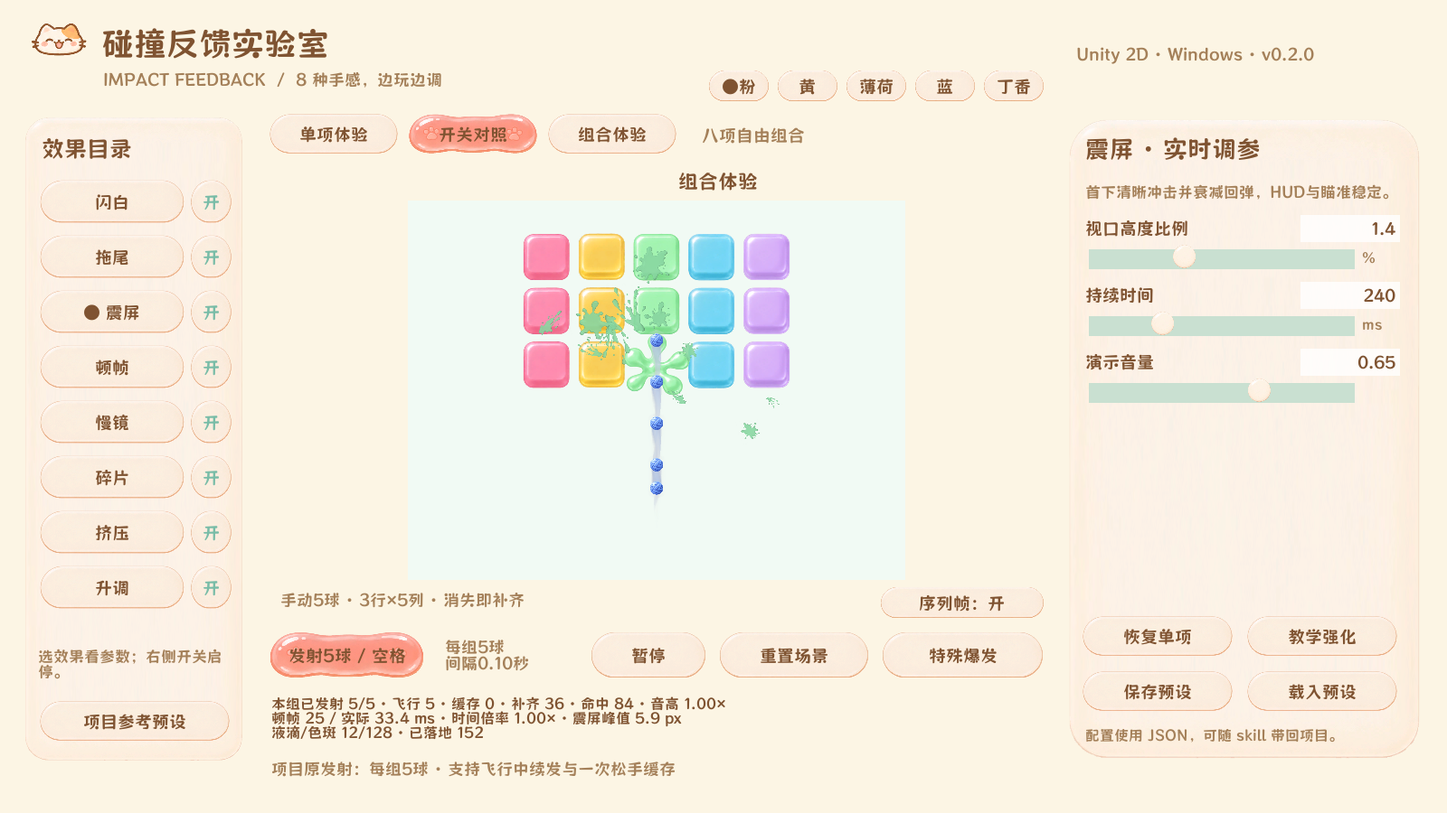
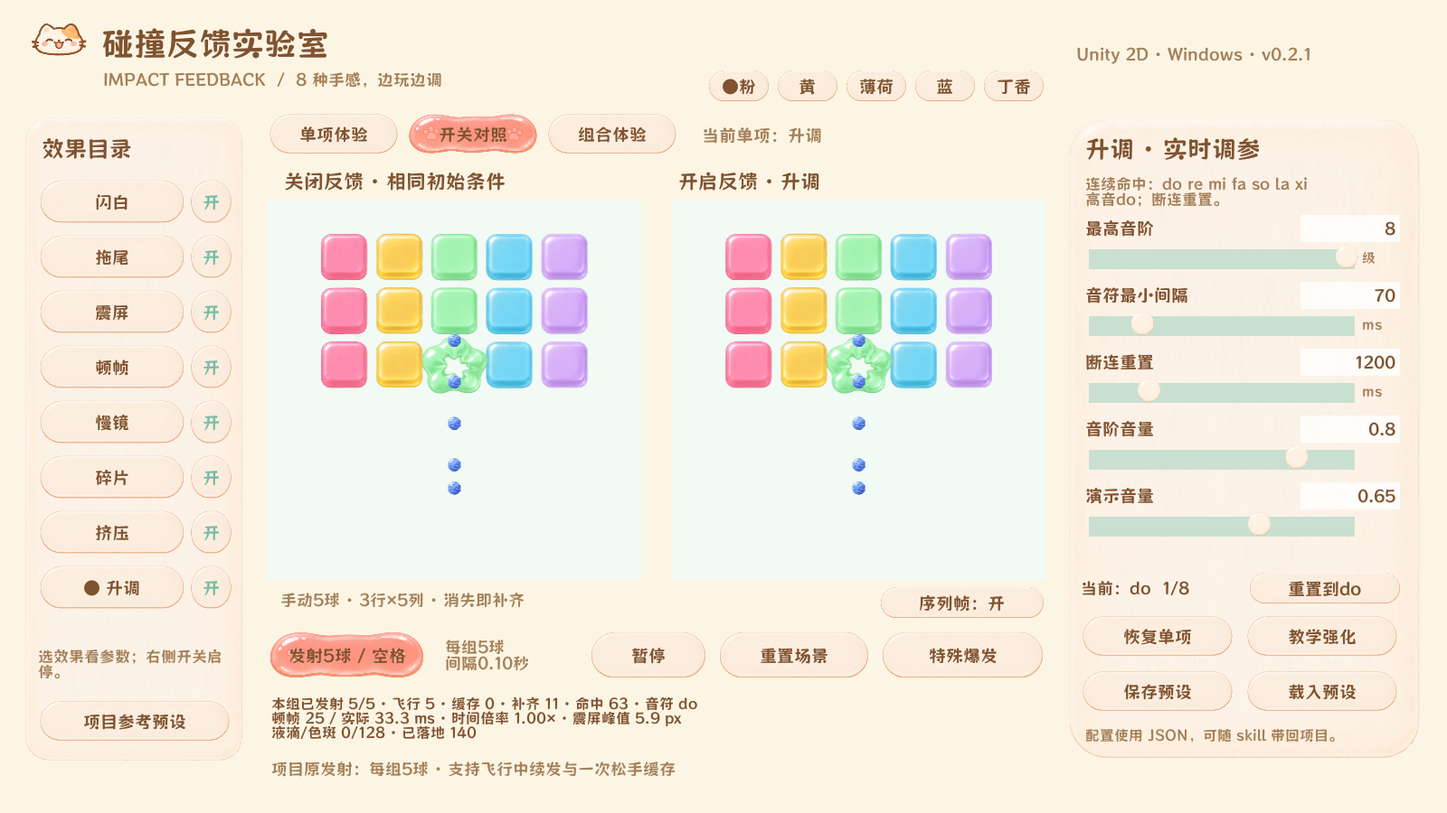
Add audible do-re-mi major-scale collision feedback and legacy preset migration

diff --git a/assets/unity-sample/Assets/ImpactFeedback/Gallery/ImpactGallery.cs b/assets/unity-sample/Assets/ImpactFeedback/Gallery/ImpactGallery.cs
@@ -14,8 +14,8 @@ namespace ImpactFeedback.Gallery {
   public GalleryLane Baseline{get;private set;}public GalleryLane Active{get;private set;}
   public bool Paused{get;private set;}public int Mode{get;private set;}=1;public Effect Selected{get;private set;}
   public static readonly string[] Names={"闪白","拖尾","震屏","顿帧","慢镜","碎片","挤压","升调"};
-  static readonly string[] Hints={"命中表面短促混白，保留透明轮廓。","双层毛线描绘球路，保留碰撞折返点。","首下清晰冲击并衰减回弹，HUD与瞄准稳定。","真实暂停演示侧物理；界面和恢复计时继续。","降低演示侧物理时钟倍率，结束后恢复。","原版液滴甩出后落为颜料色斑，固定128槽。","沿受力方向压缩，只改变视觉子层。","连续命中逐次升调；间隔超过阈值后重置。"};
-  RectTransform content,parameters,stage;Text status,message,title,description,modeLabel,leftLabel,rightLabel,pauseLabel,eventLabel,sequenceLabel;Text[] effectLabels=new Text[8],switchLabels=new Text[8],colourLabels=new Text[5];
+  static readonly string[] Hints={"命中表面短促混白，保留透明轮廓。","双层毛线描绘球路，保留碰撞折返点。","首下清晰冲击并衰减回弹，HUD与瞄准稳定。","真实暂停演示侧物理；界面和恢复计时继续。","降低演示侧物理时钟倍率，结束后恢复。","原版液滴甩出后落为颜料色斑，固定128槽。","沿受力方向压缩，只改变视觉子层。","连续命中：do re mi fa so la xi 高音do；断连重置。"};
+  RectTransform content,parameters,stage;Text status,message,title,description,modeLabel,leftLabel,rightLabel,pauseLabel,eventLabel,sequenceLabel,noteReadout;RectTransform noteControls;Text[] effectLabels=new Text[8],switchLabels=new Text[8],colourLabels=new Text[5];
   int colour;bool sequences=true;
   int screenW,screenH;bool focused=true;ImpactFeedback.ProjectLaunch.ProjectBattleInput projectInput;ImpactKind kind=ImpactKind.Special;
   readonly List<Parameter> rows=new List<Parameter>();
@@ -35,7 +35,7 @@ namespace ImpactFeedback.Gallery {
    if(FindFirstObjectByType<EventSystem>()==null)new GameObject("EventSystem",typeof(EventSystem),typeof(StandaloneInputModule));
    content=A.Rect(canvas.transform,"1600 x 900 content",0,0,1600,900);content.anchorMin=content.anchorMax=Vector2.one*.5f;content.pivot=Vector2.one*.5f;content.anchoredPosition=Vector2.zero;
    A.Image(content,"decor_cat_head",30,22,70,66);A.Label(content,"碰撞反馈实验室",112,20,540,55,36);A.Label(content,"IMPACT FEEDBACK  /  8 种手感，边玩边调",114,73,660,30,18,A.Muted);
-   A.Label(content,"Unity 2D · Windows · v0.2.0",1190,42,370,35,18,A.Muted);
+   A.Label(content,"Unity 2D · Windows · v0.2.1",1190,42,370,35,18,A.Muted);
    for(int i=0;i<5;i++){int k=i;colourLabels[i]=A.Button(content,FiveColourBricks.Names[i],782+i*76,76,70,38,()=>SetColour(k)).GetComponentInChildren<Text>();}
    A.Image(content,"card_cream_help",24,126,248,720,true);A.Label(content,"效果目录",46,145,210,38,25);
    for(int i=0;i<8;i++){int k=i;var b=A.Button(content,Names[i],42,197+i*61,164,52,()=>Select((Effect)k));effectLabels[i]=b.GetComponentInChildren<Text>();
@@ -56,12 +56,13 @@ namespace ImpactFeedback.Gallery {
    status=A.Label(content,"",300,760,850,70,16);message=A.Label(content,"沿用游戏内拖动瞄准、松手发射；支持连发与一次输入缓存。",300,830,850,42,18,A.Muted);
    A.Image(content,"card_cream_help",1176,126,400,720,true);
    title=A.Label(content,"",1200,144,350,40,27);description=A.Label(content,"",1200,191,350,42,17,A.Muted);description.name="Effect explanation";parameters=A.Rect(content,"Parameter rows",1200,238,350,420);
+   noteControls=A.Rect(content,"Scale controls",1195,632,360,38);noteReadout=A.Label(noteControls,"",0,0,175,38,18);A.Button(noteControls,"重置到do",185,0,170,38,()=>Active.Presenter.ResetNotes());
    A.Button(content,"恢复单项",1195,680,170,48,ResetSelected);A.Button(content,"教学强化",1377,680,170,48,()=>SetProfile(ImpactProfile.Teaching()));
    A.Button(content,"保存预设",1195,741,170,48,Save);A.Button(content,"载入预设",1377,741,170,48,Load);
    A.Label(content,"配置使用 JSON，可随 skill 带回项目。",1200,800,350,28,16,A.Muted);
    RefreshParameters();Resize();
   }
-  public void Select(Effect e){Selected=e;RefreshParameters();Apply();}
+  public void Select(Effect e){Active.Presenter.ResetNotes();Selected=e;RefreshParameters();Apply();}
   public void SetMode(int mode){Mode=mode;Apply();Resize();ResetScene();}
   void Apply(){Profile.Clamp();Baseline.Presenter.Profile=Active.Presenter.Profile=Profile;
    Active.Presenter.Selected=Selected;Active.Presenter.ForceSelected=Mode!=2;Active.Kind=Baseline.Kind=kind;
@@ -76,7 +77,7 @@ namespace ImpactFeedback.Gallery {
   void Add(string name,string unit,float min,float max,Func<ImpactProfile,float> get,Action<ImpactProfile,float> set,bool integer=false){rows.Add(new Parameter{name=name,unit=unit,min=min,max=max,get=get,set=set,integer=integer});}
   void RefreshParameters(){
    foreach(Transform child in parameters){child.gameObject.SetActive(false);Destroy(child.gameObject);}rows.Clear();title.text=Names[(int)Selected]+" · 实时调参";
-   description.text=Hints[(int)Selected];
+   description.text=Hints[(int)Selected];noteControls.gameObject.SetActive(Selected==Effect.Pitch);
    switch(Selected){
     case Effect.Flash:Add("混白强度","",0,1,p=>p.flashStrength,(p,v)=>p.flashStrength=v);Add("持续时间","ms",5,400,p=>p.flashMs,(p,v)=>p.flashMs=v,true);break;
     case Effect.Trail:Add("最大长度","单位",.1f,5,p=>p.trailLength,(p,v)=>p.trailLength=v);Add("线芯宽度","单位",.02f,.6f,p=>p.trailWidth,(p,v)=>p.trailWidth=v);Add("保留寿命","s",.03f,1,p=>p.trailLife,(p,v)=>p.trailLife=v);Add("透明度","",0,1,p=>p.trailOpacity,(p,v)=>p.trailOpacity=v);break;
@@ -85,7 +86,7 @@ namespace ImpactFeedback.Gallery {
     case Effect.SlowMotion:Add("时间倍率","倍",.05f,1,p=>p.slowScale,(p,v)=>p.slowScale=v);Add("持续时间","ms",0,1500,p=>p.slowMs,(p,v)=>p.slowMs=v,true);break;
     case Effect.Fragments:Add("单次数量","个",0,64,p=>p.fragmentCount,(p,v)=>p.fragmentCount=Mathf.RoundToInt(v),true);Add("液滴飞行速度","",.1f,12,p=>p.fragmentSpeed,(p,v)=>p.fragmentSpeed=v);Add("色斑大小","比例",.03f,.5f,p=>p.fragmentSize,(p,v)=>p.fragmentSize=v);Add("存在寿命","s",.1f,3,p=>p.fragmentLife,(p,v)=>p.fragmentLife=v);break;
     case Effect.Squash:Add("挤压幅度","",0,.45f,p=>p.squashAmount,(p,v)=>p.squashAmount=v);Add("回弹时长","ms",50,1000,p=>p.squashMs,(p,v)=>p.squashMs=v,true);break;
-    case Effect.Pitch:Add("每次升调","",0,.15f,p=>p.pitchStep,(p,v)=>p.pitchStep=v);Add("最高音高","倍",1,2,p=>p.pitchMax,(p,v)=>p.pitchMax=v);Add("间隔重置","ms",200,5000,p=>p.pitchResetMs,(p,v)=>p.pitchResetMs=v,true);break;
+    case Effect.Pitch:Add("最高音阶","级",1,8,p=>p.scaleNotes,(p,v)=>p.scaleNotes=Mathf.RoundToInt(v),true);Add("音符最小间隔","ms",30,250,p=>p.noteIntervalMs,(p,v)=>p.noteIntervalMs=v,true);Add("断连重置","ms",200,5000,p=>p.pitchResetMs,(p,v)=>p.pitchResetMs=v,true);Add("音阶音量","",0,1,p=>p.noteVolume,(p,v)=>p.noteVolume=v);break;
    }
    Add("演示音量","",0,1,p=>p.volume,(p,v)=>p.volume=v);
    for(int i=0;i<rows.Count;i++)ParameterRow(rows[i],i*74);
@@ -115,7 +116,7 @@ namespace ImpactFeedback.Gallery {
   void OnGUI(){projectInput?.ProcessUnityGUI();}
   public void ResetScene(){projectInput?.Cancel();SetPaused(false);Baseline.Reset();Active.Reset();}
   public void Save(){try{Profile.Clamp();var json=JsonUtility.ToJson(Profile,true);File.WriteAllText(PresetPath+".tmp",json);if(File.Exists(PresetPath))File.Replace(PresetPath+".tmp",PresetPath,null);else File.Move(PresetPath+".tmp",PresetPath);message.text="已保存："+PresetPath;}catch(Exception e){message.text="保存失败："+e.Message;}}
-  public void Load(){try{var p=JsonUtility.FromJson<ImpactProfile>(File.ReadAllText(PresetPath));if(p==null||p.schemaVersion!=1)throw new InvalidDataException("不支持的参数版本");SetProfile(p);message.text="已载入自定义预设";}catch(Exception e){message.text="载入失败："+e.Message;}}
+  public void Load(){try{SetProfile(ImpactProfile.FromJson(File.ReadAllText(PresetPath)));message.text="已载入自定义预设";}catch(Exception e){message.text="载入失败："+e.Message;}}
   void Resize(){screenW=Screen.width;screenH=Screen.height;float scale=Mathf.Min(screenW/1600f,screenH/900f);content.localScale=Vector3.one*scale;
    var corners=new Vector3[4];stage.GetWorldCorners(corners);float x=corners[0].x/screenW,y=corners[0].y/screenH,w=(corners[2].x-corners[0].x)/screenW,h=(corners[2].y-corners[0].y)/screenH;
    Baseline.Camera.enabled=Mode==1;Baseline.Camera.rect=new Rect(x,y,w*.48f,h);Active.Camera.rect=Mode==1?new Rect(x+w*.52f,y,w*.48f,h):new Rect(x+w*.18f,y,w*.64f,h);
@@ -125,7 +126,7 @@ namespace ImpactFeedback.Gallery {
    Baseline.Tick(Time.unscaledTime,dt,paused);Active.Tick(Time.unscaledTime,dt,paused);
    bool editing=EventSystem.current!=null&&EventSystem.current.currentSelectedGameObject!=null&&EventSystem.current.currentSelectedGameObject.GetComponent<InputField>()!=null;
    if(!editing&&Input.GetKeyDown(KeyCode.Space))Launch();if(!editing&&Input.GetKeyDown(KeyCode.P))SetPaused(!Paused);
-   var clock=Active.Presenter.Clock;status.text="本组已发射 "+Active.SpawnedThisVolley+"/5 · 飞行 "+Active.ActiveBalls+" · 缓存 "+(Active.Production.HasBufferedShot?1:0)+" · 补齐 "+Active.Refills+" · 命中 "+Active.Presenter.ImpactCount+" · 音高 "+Active.Presenter.LastPitch.ToString("0.00")+"×\n顿帧 "+Profile.hitStopMs.ToString("0")+" / 实际 "+clock.ActualStopMs.ToString("0.0")+" ms · 时间倍率 "+clock.Scale.ToString("0.00")+"× · 震屏峰值 "+Active.Presenter.PeakShakePixels.ToString("0.0")+" px\n液滴/色斑 "+Active.Presenter.ActiveParticles+"/128 · 已落地 "+Active.Presenter.LandedParticles;
+   noteReadout.text="当前："+Active.Presenter.LastNote+"  "+(Active.Presenter.LastNoteIndex+1)+"/8";var clock=Active.Presenter.Clock;status.text="本组已发射 "+Active.SpawnedThisVolley+"/5 · 飞行 "+Active.ActiveBalls+" · 缓存 "+(Active.Production.HasBufferedShot?1:0)+" · 补齐 "+Active.Refills+" · 命中 "+Active.Presenter.ImpactCount+" · 音符 "+Active.Presenter.LastNote+"\n顿帧 "+Profile.hitStopMs.ToString("0")+" / 实际 "+clock.ActualStopMs.ToString("0.0")+" ms · 时间倍率 "+clock.Scale.ToString("0.00")+"× · 震屏峰值 "+Active.Presenter.PeakShakePixels.ToString("0.0")+" px\n液滴/色斑 "+Active.Presenter.ActiveParticles+"/128 · 已落地 "+Active.Presenter.LandedParticles;
 
   }
   void OnApplicationFocus(bool f){projectInput?.Cancel();focused=f;if(!f){Baseline?.Presenter.ResetPresentation();Active?.Presenter.ResetPresentation();}}

diff --git a/assets/unity-sample/Assets/ImpactFeedback/Gallery/GalleryQA.cs b/assets/unity-sample/Assets/ImpactFeedback/Gallery/GalleryQA.cs
@@ -8,15 +8,29 @@ using UnityEngine.UI;
 namespace ImpactFeedback.Gallery {
  public sealed class GalleryQA:MonoBehaviour {
   [Serializable]class Check{public string name;public bool passed;}
-  [Serializable]class Report{public string unity,assemblySha256,projectRuleTests,version="0.2.0";public int configuredFps,passed,failed;public float shakePeakPixels;public List<Check> checks=new List<Check>();}
+  [Serializable]class Report{public string unity,assemblySha256,projectRuleTests,version="0.2.1";public int configuredFps,passed,failed;public float shakePeakPixels;public float[] scaleFrequencies;public List<Check> checks=new List<Check>();}
   Report report=new Report();string folder;ImpactGallery g;
   void C(bool passed,string name){report.checks.Add(new Check{name=name,passed=passed});if(passed)report.passed++;else report.failed++;Debug.Log("GALLERY_QA "+(passed?"PASS ":"FAIL ")+name);}
   string Arg(string key,string fallback){var a=Environment.GetCommandLineArgs();int i=Array.IndexOf(a,key);return i>=0&&i+1<a.Length?a[i+1]:fallback;}
   void Capture(string name){GalleryCapture.Save(g,Path.Combine(folder,name+".png"));}
+  void VerifyScaleAudio(){
+   var bank=new SolfeggioScale();float[] expected={261.625565f,293.664768f,329.627557f,349.228231f,391.995436f,440,493.883301f,523.251131f};report.scaleFrequencies=new float[8];
+   int perNote=Mathf.RoundToInt(SolfeggioScale.SampleRate*.26f);var combined=new float[perNote*8];
+   for(int n=0;n<8;n++){
+    var clip=bank.Clip(n);var data=new float[clip.samples];clip.GetData(data,0);int first=-1,last=0,crossings=0;float peak=0;
+    for(int i=1;i<data.Length;i++){peak=Mathf.Max(peak,Mathf.Abs(data[i]));if(i<SolfeggioScale.SampleRate*.015f||i>SolfeggioScale.SampleRate*.16f)continue;if(data[i-1]<=0&&data[i]>0){if(first<0)first=i;last=i;crossings++;}}
+    float measured=(crossings-1)*SolfeggioScale.SampleRate/(float)(last-first);report.scaleFrequencies[n]=measured;
+    C(Mathf.Abs(measured-expected[n])/expected[n]<.005f,"rendered audio frequency matches "+SolfeggioScale.Names[n]);C(peak<.5f&&Mathf.Abs(data[0])<.0001f&&Mathf.Abs(data[data.Length-1])<.001f,"note envelope is bounded with clean attack/release: "+SolfeggioScale.Names[n]);
+    System.Array.Copy(data,0,combined,n*perNote,data.Length);
+   }
+   using(var writer=new BinaryWriter(File.Create(Path.Combine(folder,"solfeggio-scale.wav")))){
+    writer.Write(System.Text.Encoding.ASCII.GetBytes("RIFF"));writer.Write(36+combined.Length*2);writer.Write(System.Text.Encoding.ASCII.GetBytes("WAVEfmt "));writer.Write(16);writer.Write((short)1);writer.Write((short)1);writer.Write(SolfeggioScale.SampleRate);writer.Write(SolfeggioScale.SampleRate*2);writer.Write((short)2);writer.Write((short)16);writer.Write(System.Text.Encoding.ASCII.GetBytes("data"));writer.Write(combined.Length*2);foreach(float sample in combined)writer.Write((short)(Mathf.Clamp(sample,-1,1)*32767));
+   }bank.Dispose();
+  }
   IEnumerator Start(){
    folder=Arg("--qa-out",Path.Combine(Application.persistentDataPath,"qa"));Directory.CreateDirectory(folder);report.unity=Application.unityVersion;report.configuredFps=int.Parse(Arg("--qa-fps","60"));Application.targetFrameRate=report.configuredFps;
    using(var hash=SHA256.Create())report.assemblySha256=BitConverter.ToString(hash.ComputeHash(File.ReadAllBytes(typeof(ImpactGallery).Assembly.Location))).Replace("-","").ToLowerInvariant();
-   yield return null;g=ImpactGallery.Instance;g.ResetScene();
+   yield return null;g=ImpactGallery.Instance;g.ResetScene();VerifyScaleAudio();
    report.projectRuleTests=ImpactFeedback.ProjectLaunch.RuleSelfTests.RunAll();C(report.projectRuleTests.StartsWith("PASS"),"unchanged project RuleState self-tests pass");
    var shallow=ImpactFeedback.ProjectLaunch.GameSession.NormalizeAimDirection(new Vector2(1,.001f));C(Mathf.Abs(Mathf.Atan2(shallow.y,shallow.x)*Mathf.Rad2Deg-12)<.001f,"production minimum launch angle remains 12 degrees");
    C(!g.Active.Production.TryShoot(Vector2.down)&&!g.Active.Production.TryShoot(Vector2.zero),"production rejects downward and zero-length shots");
@@ -77,12 +91,19 @@ namespace ImpactFeedback.Gallery {
    C(g.Active.Refills>beforeRefill&&g.Active.Bricks.Length==15,"refill reuses the original fifteen cells");
    g.SetPaused(true);var frozen=new Vector2[5];for(int i=0;i<5;i++)frozen[i]=g.Active.Balls[i].position;int frame=brick.Sequence.FrameIndex;yield return new WaitForSecondsRealtime(.12f);
    bool fixedAll=true;for(int i=0;i<5;i++)fixedAll&=g.Active.Balls[i].position==frozen[i];C(fixedAll&&frame==brick.Sequence.FrameIndex,"pause freezes all five bodies and sequence clocks");g.SetPaused(false);g.ResetScene();
-   g.SetMode(2);g.Profile.pitchResetMs=200;g.Active.Presenter.Hit(Vector2.zero,Vector2.up,Color.cyan,ImpactKind.Hit);g.Active.Presenter.Hit(Vector2.zero,Vector2.up,Color.cyan,ImpactKind.Hit);
-   C(g.Active.Presenter.LastPitch>1&&g.Active.Presenter.LastPitch<=g.Profile.pitchMax,"successive contacts raise pitch within its cap");yield return new WaitForSecondsRealtime(.25f);g.Active.Presenter.Hit(Vector2.zero,Vector2.up,Color.cyan,ImpactKind.Hit);C(g.Active.Presenter.LastPitch==1,"pitch resets after its configured gap");
+   g.SetMode(1);g.Select(Effect.Pitch);g.Profile.pitchResetMs=200;g.Active.Presenter.ResetNotes();
+   for(int n=0;n<8;n++){if(n>0)yield return new WaitForSecondsRealtime(.085f);g.Active.Presenter.Hit(Vector2.zero,Vector2.up,Color.cyan,ImpactKind.Hit);C(g.Active.Presenter.LastNoteIndex==n,"successive audible contacts advance through "+SolfeggioScale.Names[n]);}
+   yield return new WaitForSecondsRealtime(.085f);g.Active.Presenter.Hit(Vector2.zero,Vector2.up,Color.cyan,ImpactKind.Hit);C(g.Active.Presenter.LastNoteIndex==7&&Mathf.Abs(g.Active.Presenter.LastPitch-2)<.001f,"ascending scale holds at the upper do octave");
+   g.Active.Presenter.ResetNotes();g.Active.Presenter.Hit(Vector2.zero,Vector2.up,Color.cyan,ImpactKind.Hit);int played=g.Active.Presenter.NotesPlayed;g.Active.Presenter.Hit(Vector2.zero,Vector2.up,Color.cyan,ImpactKind.Hit);C(g.Active.Presenter.NotesPlayed==played&&g.Active.Presenter.LastNoteIndex==0,"coalesced dense contacts do not silently skip scale notes");
+   yield return new WaitForSecondsRealtime(.085f);g.Active.Presenter.Hit(Vector2.zero,Vector2.up,Color.cyan,ImpactKind.Hit);C(g.Active.Presenter.LastNoteIndex==1,"the next audible contact continues at re after a merged hit");
+   yield return new WaitForSecondsRealtime(.25f);g.Active.Presenter.Hit(Vector2.zero,Vector2.up,Color.cyan,ImpactKind.Hit);C(g.Active.Presenter.LastNoteIndex==0,"scale resets to do after its configured gap");
+   g.Profile.pitch=false;g.Active.Presenter.ResetNotes();g.Active.Presenter.Hit(Vector2.zero,Vector2.up,Color.cyan,ImpactKind.Hit);yield return new WaitForSecondsRealtime(.085f);g.Active.Presenter.Hit(Vector2.zero,Vector2.up,Color.cyan,ImpactKind.Hit);C(g.Active.Presenter.LastNoteIndex==0,"switching off scale ascent keeps a fixed do for comparison");g.Profile.pitch=true;
    string original=File.Exists(g.PresetPath)?File.ReadAllText(g.PresetPath):null;g.Select(Effect.HitStop);yield return null;
    GameObject.Find("Value 顿帧时长").GetComponent<InputField>().onEndEdit.Invoke("100");C(g.Profile.hitStopMs==100,"numeric input commits exact milliseconds");
    g.Profile.hitStopMs=137;g.Save();g.Profile.hitStopMs=1;g.Load();C(Mathf.Abs(g.Profile.hitStopMs-137)<.001f,"preset JSON round trip preserves duration edits");if(original==null)File.Delete(g.PresetPath);else File.WriteAllText(g.PresetPath,original);
    p=new ImpactProfile();p.hitStopMs=float.NaN;p.pitchMax=100;p.fragmentCount=1000;p.Clamp();C(p.hitStopMs==25&&p.pitchMax==2&&p.fragmentCount==64,"external preset values are normalized");
+   var legacy=ImpactProfile.FromJson("{\"schemaVersion\":1,\"pitch\":true,\"volume\":0.65}");C(legacy.scaleNotes==8&&legacy.noteIntervalMs==70&&legacy.noteVolume==.8f,"old presets gain audible eight-note defaults");
+   var muted=ImpactProfile.FromJson("{\"schemaVersion\":1,\"noteVolume\":0}");C(muted.noteVolume==0,"explicitly muted scale presets remain muted");
    for(int i=0;i<8;i++){
     g.SetProfile(ImpactProfile.GalleryDefault());g.SetMode(1);g.Select((Effect)i);g.ResetScene();yield return null;
     C(g.Active.Presenter.Enabled((Effect)i),"effect independently available: "+ImpactGallery.Names[i]);C(!g.Active.Presenter.Enabled((Effect)((i+1)%8)),"single mode isolates selection: "+ImpactGallery.Names[i]);

diff --git a/assets/unity-sample/Assets/ImpactFeedback/Runtime/ImpactPresenter.cs b/assets/unity-sample/Assets/ImpactFeedback/Runtime/ImpactPresenter.cs
@@ -5,19 +5,21 @@ namespace ImpactFeedback {
   public ImpactProfile Profile=new ImpactProfile();public readonly FeedbackClock Clock=new FeedbackClock();
   public bool AllowEffects=true,ForceSelected,PlayAudio=true;public Effect Selected;
   public int ImpactCount{get;private set;}public float LastPitch{get;private set;}=1;
+  public int LastNoteIndex{get;private set;}public string LastNote=>SolfeggioScale.Names[LastNoteIndex];public int NotesPlayed{get;private set;}
   public int ActiveParticles{get;private set;}public int PeakParticles{get;private set;}public int ActivePaintMarks{get;private set;}public int LandedParticles{get;private set;}
   public float PeakShakePixels{get;private set;}public Vector3 CameraOffset=>view==null?Vector3.zero:view.transform.localPosition-cameraRest;
   public readonly List<YarnFlightTrail> Trails=new List<YarnFlightTrail>();readonly List<Transform> heads=new List<Transform>();
   sealed class Target{public SpriteRenderer face;public Vector3 rest;public Vector2 incoming;public float flashAge=9,squashAge=9;public MaterialPropertyBlock block=new MaterialPropertyBlock();}
   readonly Dictionary<SpriteRenderer,Target> targets=new Dictionary<SpriteRenderer,Target>();SpriteRenderer primary;
   Camera view;Vector3 cameraRest;Material flashMaterial;readonly Dictionary<Texture,Material> faceMaterials=new Dictionary<Texture,Material>();float alphaCutoff;float shakeAge=9,shakeDuration=.24f,shakeAmplitude;Vector2 shakeAxis=Vector2.right;
-  float pitchAt=-99,nextAudio;int pitchChain,voiceCursor;AudioSource[] voices;AudioClip clip;
+  float pitchAt=-99,nextAudio;int pitchChain,voiceCursor;AudioSource[] voices;AudioClip clip;SolfeggioScale notes;
   System.Random random=new System.Random(79012);Sprite[] particleSprites;
   struct Drop{public SpriteRenderer view;public Vector2 origin,target;public Color color;public float age,life,size,travel,rotation;public int sprite;public bool landed;}
   readonly Drop[] pool=new Drop[128];
   public bool Enabled(Effect e)=>AllowEffects&&Profile.Enabled(e)&&(!ForceSelected||Selected==e);
+  public void ResetNotes(){pitchChain=0;pitchAt=-99;nextAudio=0;LastPitch=1;LastNoteIndex=0;}
   public void Initialize(SpriteRenderer target,Transform movingHead,Camera camera,Sprite[] particles,AudioClip sound,Texture2D yarn){
-   primary=target;view=camera;cameraRest=view.transform.localPosition;particleSprites=particles;clip=sound;
+   primary=target;view=camera;cameraRest=view.transform.localPosition;particleSprites=particles;clip=sound;notes=new SolfeggioScale();
    flashMaterial=new Material(Shader.Find("ImpactFeedback/SpriteFlash"));AddTarget(target);AddTrail(movingHead,yarn);
    voices=new AudioSource[12];for(int i=0;i<voices.Length;i++){voices[i]=gameObject.AddComponent<AudioSource>();voices[i].playOnAwake=false;voices[i].spatialBlend=0;}
    for(int i=0;i<pool.Length;i++){var o=new GameObject("Project pooled paint "+i);o.transform.SetParent(transform,false);o.layer=target.gameObject.layer;var sr=o.AddComponent<SpriteRenderer>();sr.sprite=particles[i%4];sr.sortingOrder=78;o.SetActive(false);pool[i].view=sr;}
@@ -39,9 +41,17 @@ namespace ImpactFeedback {
    }
    Clock.Request(now,Profile,Enabled(Effect.HitStop)&&(special||ForceSelected&&Selected==Effect.HitStop),Enabled(Effect.SlowMotion)&&(special||ForceSelected&&Selected==Effect.SlowMotion));
    if(Enabled(Effect.Fragments)&&(kind!=ImpactKind.Hit||ForceSelected&&Selected==Effect.Fragments))Emit(position,direction,color,brickWidth);
-   if(now-pitchAt>Profile.pitchResetMs/1000)pitchChain=0;
-   LastPitch=Enabled(Effect.Pitch)?Mathf.Min(Profile.pitchMax,1+pitchChain*Profile.pitchStep):1;pitchChain++;pitchAt=now;
-   if(PlayAudio&&clip!=null&&now>=nextAudio){var a=voices[voiceCursor++%voices.Length];a.Stop();a.clip=clip;a.pitch=LastPitch;a.volume=Profile.volume;a.Play();nextAudio=now+.025f;}
+   if(PlayAudio&&now>=nextAudio){
+    bool ascending=Enabled(Effect.Pitch),scaleVoice=ascending||AllowEffects&&ForceSelected&&Selected==Effect.Pitch;
+    var a=voices[voiceCursor++%voices.Length];a.Stop();a.pitch=1;
+    if(scaleVoice){
+     if(now-pitchAt>Profile.pitchResetMs/1000)pitchChain=0;
+     LastNoteIndex=ascending?Mathf.Min(pitchChain,Profile.scaleNotes-1):0;LastPitch=SolfeggioScale.Ratio(LastNoteIndex);
+     a.clip=notes.Clip(LastNoteIndex);a.volume=Profile.volume*Profile.noteVolume;pitchAt=now;
+     pitchChain=ascending?Mathf.Min(LastNoteIndex+1,7):0;NotesPlayed++;nextAudio=now+Profile.noteIntervalMs/1000;
+    }else{LastPitch=1;LastNoteIndex=0;pitchChain=0;a.clip=clip;a.volume=Profile.volume;nextAudio=now+.025f;}
+    if(a.clip!=null)a.Play();
+   }
   }
   void ApplyShake(){float t=Mathf.Clamp01(shakeAge/shakeDuration);float amp=Enabled(Effect.Shake)?shakeAmplitude*view.orthographicSize*2:0;
    Vector2 tangent=new Vector2(-shakeAxis.y,shakeAxis.x);Vector2 offset=(shakeAxis*Mathf.Cos(t*Mathf.PI*6)+tangent*Mathf.Sin(t*Mathf.PI*8)*.3f)*amp*(1-t)*(1-t);
@@ -75,11 +85,11 @@ namespace ImpactFeedback {
    else{if(!d.landed){d.landed=true;d.view.sprite=particleSprites[d.sprite];d.view.sortingOrder=38;d.view.transform.position=d.target;d.view.transform.rotation=Quaternion.Euler(0,0,d.rotation);LandedParticles++;}
     ActivePaintMarks++;float settle=Mathf.Clamp01((d.age-d.travel)/.10f);Size(ref d,1+.12f*Mathf.Sin(settle*Mathf.PI));float fade=Mathf.Clamp01((d.life-d.age)/.40f);d.view.color=new Color(d.color.r,d.color.g,d.color.b,.90f*fade);}
   }PeakParticles=Mathf.Max(PeakParticles,ActiveParticles);}
-  public void ResetPresentation(){Clock.Reset();shakeAge=9;pitchChain=0;pitchAt=-99;LastPitch=1;
+  public void ResetPresentation(){Clock.Reset();shakeAge=9;pitchChain=0;pitchAt=-99;nextAudio=0;LastPitch=1;LastNoteIndex=0;
    if(view!=null)view.transform.localPosition=cameraRest;foreach(var t in targets.Values)ResetTarget(t.face);foreach(var trail in Trails)trail.Clear();
    for(int i=0;i<pool.Length;i++)if(pool[i].view!=null)pool[i].view.gameObject.SetActive(false);if(voices!=null)foreach(var a in voices)if(a!=null)a.Stop();ActiveParticles=ActivePaintMarks=0;
   }
   void OnApplicationFocus(bool focus){if(!focus)ResetPresentation();}void OnApplicationPause(bool pause){if(pause)ResetPresentation();}void OnDisable(){ResetPresentation();}
-  void OnDestroy(){if(flashMaterial!=null)Destroy(flashMaterial);foreach(var material in faceMaterials.Values)Destroy(material);foreach(var trail in Trails)trail.Dispose();}
+  void OnDestroy(){if(flashMaterial!=null)Destroy(flashMaterial);foreach(var material in faceMaterials.Values)Destroy(material);foreach(var trail in Trails)trail.Dispose();notes?.Dispose();}
  }
 }

diff --git a/assets/unity-sample/Assets/ImpactFeedback/Runtime/ImpactProfile.cs b/assets/unity-sample/Assets/ImpactFeedback/Runtime/ImpactProfile.cs
@@ -17,9 +17,18 @@ namespace ImpactFeedback {
   public float paintMinRadius=.45f,paintMaxRadius=2.8f;
   public float squashAmount=.18f,squashMs=450;
   public float pitchStep=.025f,pitchMax=1.15f,pitchResetMs=1200,volume=.65f;
+  // pitchStep/pitchMax remain for reading earlier presets. Scale mode uses exact notes.
+  public int scaleNotes=8;public float noteIntervalMs=70,noteVolume=.8f;
   public bool Enabled(Effect e){switch(e){case Effect.Flash:return flash;case Effect.Trail:return trail;case Effect.Shake:return shake;case Effect.HitStop:return hitStop;case Effect.SlowMotion:return slowMotion;case Effect.Fragments:return fragments;case Effect.Squash:return squash;default:return pitch;}}
   public void Enable(Effect e,bool v){switch(e){case Effect.Flash:flash=v;break;case Effect.Trail:trail=v;break;case Effect.Shake:shake=v;break;case Effect.HitStop:hitStop=v;break;case Effect.SlowMotion:slowMotion=v;break;case Effect.Fragments:fragments=v;break;case Effect.Squash:squash=v;break;case Effect.Pitch:pitch=v;break;}}
   public ImpactProfile Copy()=>JsonUtility.FromJson<ImpactProfile>(JsonUtility.ToJson(this));
+  public static ImpactProfile FromJson(string json){
+   var p=JsonUtility.FromJson<ImpactProfile>(json);if(p==null||p.schemaVersion!=1)throw new ArgumentException("不支持的参数版本");
+   if(json.IndexOf("\"scaleNotes\"",StringComparison.Ordinal)<0)p.scaleNotes=8;
+   if(json.IndexOf("\"noteIntervalMs\"",StringComparison.Ordinal)<0)p.noteIntervalMs=70;
+   if(json.IndexOf("\"noteVolume\"",StringComparison.Ordinal)<0)p.noteVolume=.8f;
+   p.Clamp();return p;
+  }
   public void Clamp(){
    schemaVersion=1;flashStrength=C(flashStrength,0,1,.48f);flashMs=C(flashMs,5,400,50);
    trailLength=C(trailLength,.1f,5,2.1f);trailWidth=C(trailWidth,.02f,.6f,.2f);trailLife=C(trailLife,.03f,1,.24f);trailOpacity=C(trailOpacity,0,1,.95f);
@@ -30,6 +39,7 @@ namespace ImpactFeedback {
    paintMinRadius=C(paintMinRadius,0,4,.45f);paintMaxRadius=C(paintMaxRadius,paintMinRadius,5,2.8f);
    squashAmount=C(squashAmount,0,.45f,.18f);squashMs=C(squashMs,50,1000,450);
    pitchStep=C(pitchStep,0,.15f,.025f);pitchMax=C(pitchMax,1,2,1.15f);pitchResetMs=C(pitchResetMs,200,5000,1200);volume=C(volume,0,1,.65f);
+   scaleNotes=Mathf.Clamp(scaleNotes,1,8);noteIntervalMs=C(noteIntervalMs,30,250,70);noteVolume=C(noteVolume,0,1,.8f);
   }
   static float C(float v,float min,float max,float fallback)=>float.IsNaN(v)||float.IsInfinity(v)?fallback:Mathf.Clamp(v,min,max);
   public static ImpactProfile GalleryDefault(){var p=new ImpactProfile();p.shakeHeight=.014f;p.shakeMs=240;return p;}

diff --git a/assets/unity-sample/Assets/Editor/GalleryBuild.cs b/assets/unity-sample/Assets/Editor/GalleryBuild.cs
@@ -18,7 +18,7 @@ public static class GalleryBuild {
    string path=AssetDatabase.GUIDToAssetPath(guid);var importer=AssetImporter.GetAtPath(path) as TextureImporter;if(importer==null)continue;
    if(importer.mipmapEnabled||!importer.alphaIsTransparency||importer.maxTextureSize!=2048){importer.mipmapEnabled=false;importer.alphaIsTransparency=true;importer.maxTextureSize=2048;importer.textureCompression=TextureImporterCompression.Compressed;importer.SaveAndReimport();}
   }
-  PlayerSettings.companyName="BounceBusters";PlayerSettings.productName="Impact Feedback Gallery";PlayerSettings.bundleVersion="0.2.0";
+  PlayerSettings.companyName="BounceBusters";PlayerSettings.productName="Impact Feedback Gallery";PlayerSettings.bundleVersion="0.2.1";
   PlayerSettings.defaultScreenWidth=1600;PlayerSettings.defaultScreenHeight=900;PlayerSettings.fullScreenMode=FullScreenMode.Windowed;PlayerSettings.resizableWindow=true;PlayerSettings.runInBackground=true;
   PlayerSettings.SetScriptingBackend(NamedBuildTarget.Standalone,ScriptingImplementation.Mono2x);
   PlayerSettings.SetGraphicsAPIs(BuildTarget.StandaloneWindows64,new[]{GraphicsDeviceType.Direct3D11});
@@ -26,7 +26,7 @@ public static class GalleryBuild {
   AssetDatabase.SaveAssets();
   string output=Environment.GetEnvironmentVariable("IMPACT_BUILD_OUTPUT")??Path.Combine(root,"Builds/Windows/ImpactFeedbackGallery.exe");Directory.CreateDirectory(Path.GetDirectoryName(output));
   var report=BuildPipeline.BuildPlayer(new BuildPlayerOptions{scenes=new[]{"Assets/Scenes/Gallery.unity"},locationPathName=output,target=BuildTarget.StandaloneWindows64,options=BuildOptions.None});
-  File.WriteAllText(Path.Combine(Path.GetDirectoryName(output),"build-summary.json"),JsonUtility.ToJson(new Summary{result=report.summary.result.ToString(),errors=(int)report.summary.totalErrors,warnings=(int)report.summary.totalWarnings,unity=Application.unityVersion,version="0.2.0"},true));
+  File.WriteAllText(Path.Combine(Path.GetDirectoryName(output),"build-summary.json"),JsonUtility.ToJson(new Summary{result=report.summary.result.ToString(),errors=(int)report.summary.totalErrors,warnings=(int)report.summary.totalWarnings,unity=Application.unityVersion,version="0.2.1"},true));
   if(report.summary.result!=BuildResult.Succeeded)throw new Exception("Gallery build failed");Debug.Log("IMPACT_GALLERY_BUILD_OK "+output);
  }
  [Serializable]class Summary{public string result,unity,version;public int errors,warnings;}

diff --git a/assets/unity-sample/Assets/ImpactFeedback/Runtime/SolfeggioScale.cs b/assets/unity-sample/Assets/ImpactFeedback/Runtime/SolfeggioScale.cs
@@ -1,0 +1,22 @@
+using UnityEngine;
+
+namespace ImpactFeedback {
+ // C major, equal temperament. A melodic voice makes the intervals audible even
+ // when the project's original impact sample has no stable fundamental pitch.
+ public sealed class SolfeggioScale {
+  static readonly int[] semitones={0,2,4,5,7,9,11,12};
+  public static readonly string[] Names={"do","re","mi","fa","so","la","xi","高音do"};
+  public const float RootFrequency=261.625565f,Duration=.18f;public const int SampleRate=44100;
+  readonly AudioClip[] clips=new AudioClip[8];
+  public static float Ratio(int step)=>Mathf.Pow(2,semitones[Mathf.Clamp(step,0,7)]/12f);
+  public static float Frequency(int step)=>RootFrequency*Ratio(step);
+  public SolfeggioScale(){for(int step=0;step<8;step++){
+   int count=Mathf.RoundToInt(SampleRate*Duration);var data=new float[count];float frequency=Frequency(step);
+   for(int i=0;i<count;i++){float t=i/(float)SampleRate;float attack=Mathf.Clamp01(t/.004f),release=Mathf.Clamp01((Duration-t)/.035f),envelope=attack*release*Mathf.Exp(-t*12);
+    float phase=2*Mathf.PI*frequency*t;data[i]=.45f*envelope*(Mathf.Sin(phase)+.22f*Mathf.Sin(phase*2)+.08f*Mathf.Sin(phase*3))/1.3f;}
+   clips[step]=AudioClip.Create("Solfeggio "+Names[step],count,1,SampleRate,false);clips[step].SetData(data,0);
+  }}
+  public AudioClip Clip(int step)=>clips[Mathf.Clamp(step,0,7)];
+  public void Dispose(){foreach(var clip in clips)if(clip!=null)Object.Destroy(clip);}
+ }
+}

diff --git a/scripts/package.py b/scripts/package.py
@@ -4,7 +4,7 @@ from zipfile import ZipFile, ZIP_DEFLATED
 import json,hashlib,re,subprocess,sys
 
 ROOT=Path(__file__).resolve().parents[1]
-VERSION='0.2.0'
+VERSION='0.2.1'
 EXCLUDED={'.git','Library','Temp','Obj','Logs','UserSettings','.vs','__pycache__','Builds','dist','evidence'}
 def source_files():
  for p in ROOT.rglob('*'):
@@ -38,6 +38,8 @@ def main():
    z.writestr(prefix+'verification/delivery.json',manifest)
    for fps,r in reports.items():z.writestr(prefix+f'verification/qa{fps}.json',json.dumps(r,ensure_ascii=False,indent=2))
    for p in sorted((ROOT/'evidence/qa60').glob('*.png')):z.write(p,prefix+'verification/screenshots/'+p.name)
+   audio=ROOT/'evidence/qa60/solfeggio-scale.wav'
+   if audio.exists():z.write(audio,prefix+'verification/solfeggio-scale.wav')
  delivery['archives']=[dict(name=p.name,bytes=p.stat().st_size,sha256=sha(p)) for p in (skill,windows)]
  (out/'delivery.json').write_text(json.dumps(delivery,ensure_ascii=False,indent=2),encoding='utf-8')
  print(json.dumps(delivery,ensure_ascii=False,indent=2))

diff --git a/references/effects.md b/references/effects.md
@@ -13,7 +13,7 @@
 | 慢镜 | slowScale=.55；slowMs=160 | .05–1；0–1500ms | 特殊事件；顿帧期间倍率为0，恢复后再慢放 |
 | 碎片 | fragmentCount=12；fragmentSpeed=4；fragmentSize=.16；fragmentLife=1.2 | 0–64；.1–12；.03–.5；.1–3s | 破砖／特殊事件；片数与寿命共同决定并发压力 |
 | 挤压 | squashAmount=.18；squashMs=450 | 0–.45；50–1000ms | 根据来向切换横纵挤压；衰减回弹后归位 |
-| 升调 | pitchStep=.025；pitchMax=1.15；pitchResetMs=1200 | 0–.15；1–2倍；200–5000ms | 第一次1倍，后续递增；超过间隔恢复1倍 |
+| 升调 | scaleNotes=8；noteIntervalMs=70；pitchResetMs=1200；noteVolume=.8 | 1–8级；30–250ms；200–5000ms；0–1 | do re mi fa so la xi 高音do；断连回do |
 
 所有效果独立布尔开关；音量 `volume` 范围0–1。世界单位受宿主精灵尺寸影响，迁移时先换算为砖宽／球直径再调节。展馆默认音量.65。
 
@@ -30,7 +30,7 @@
 
 顿帧例如：时长100ms、每秒预算30ms时，本次最多申请30ms；演示实际时长还会向显示帧边界量化。若要观察100ms，可把预算调至100ms或以上。每秒预算是以首次使用为起点的1秒窗口，不是严格的滑动窗口。不要为了追求精确毫秒使用线程休眠或忙等。
 
-升调过高会改变音色与播放速度，先在1.1–1.3倍内听辨。多个声音同时播放时同时控制触发频率和声部数量。展馆关闭侧静音，开启侧在关闭升调后播放固定音高，可听出差别。
+0.2.1升调采用C大调八级音阶：do、re、mi、fa、so、la、xi、高音do，对应半音0、2、4、5、7、9、11、12。起点C4=261.625565Hz，高音do为C5；使用可辨认的短促乐音，每个音符固定0.18秒。同一连续命中序列逐级上行，到配置最高级封顶；断连超过重置间隔回到do。密集命中在音符最小间隔内只合并声音，不推进音阶，避免听到跳音。单项模式关闭升调时播放固定do便于对比；组合模式关闭升调后使用原命中音效。旧pitchStep/pitchMax保留读取兼容，不再用于音阶计算。
 
 ## 0.2.0 展馆宿主
 

diff --git a/references/gallery.md b/references/gallery.md
@@ -42,8 +42,12 @@ python ./scripts/package.py
 python ./scripts/install.py --with-windows
 ```
 
-打包前必须有成功构建与两个帧率的运行结果。输出 `dist/unity-2d-impact-feedback-0.2.0.zip`（含完整Windows展示）与`dist/ImpactFeedbackGallery-Windows-x64-0.2.0.zip`。文件哈希写入 `dist/delivery.json`，检查摘要附在压缩包中。大体积构建产物放私有GitHub Release，不提交到源码Git历史。
+打包前必须有成功构建与两个帧率的运行结果。输出 `dist/unity-2d-impact-feedback-0.2.1.zip`（含完整Windows展示）与`dist/ImpactFeedbackGallery-Windows-x64-0.2.1.zip`。文件哈希写入 `dist/delivery.json`，检查摘要附在压缩包中。大体积构建产物放私有GitHub Release，不提交到源码Git历史。
 
 安装脚本把仓库内skill和示例复制到当前用户 `.codex/skills/unity-2d-impact-feedback`，排除Library、Temp、日志、Git及发布ZIP。传入`--with-windows`时将已构建展示复制到该skill的`Windows/`目录。默认不覆盖已存在的skill目录；更新时显式传`--replace`，仅更新本skill管理的文件。
 
 0.2.0强化了震屏首下并显示实际像素峰值；默认预设1.4%视口高度，项目参考预设仍保留原0.32%。拖尾使用项目原线芯Shader，碎片使用项目液滴和不规则色斑两张图集。
+
+## 0.2.1 八级音阶
+
+选择“升调”后，连续命中依次播放do re mi fa so la xi 高音do，达到最高级后保持；默认超过1.2秒没有音符重置到do。面板显示当前音符，支持最高音阶、音符最小间隔、断连重置、音阶音量和“重置到do”。重置音阶不操作发射队列。全部音符使用固定音高的乐音，不再对敲击声做任意小幅变调。单项关闭升调时保留固定do用于比较。发布包verification/solfeggio-scale.wav提供相同音色的完整音阶试听。

diff --git a/references/integration.md b/references/integration.md
@@ -8,7 +8,7 @@
 using ImpactFeedback;
 
 var presenter = gameObject.AddComponent<ImpactPresenter>();
-presenter.Profile = JsonUtility.FromJson<ImpactProfile>(profileJson);
+presenter.Profile = ImpactProfile.FromJson(profileJson);
 presenter.Profile.Clamp();
 presenter.Initialize(brickVisual, ballTransform, camera, particleSprites,
                      hitClip, yarnTexture);
@@ -69,3 +69,9 @@ RuleState.cs只改命名空间；LevelData默认球数、间隔、球速及GameS
 `LaunchHostAdapter.cs` 把原BallBody.Initialize／Deactivate接到隔离物理场景，并关闭展馆不存在的目标、商店、机关状态；不改射击准入、排队、缓存或方向算法。展馆使用均匀WorldScale=.6把源坐标与速度映射到展示区，源炮口位置与方向表达式保持原样。输入6像素判定在屏幕空间中不缩放。
 
 复用原实时连发：前一组仍在飞行时可按0.55模拟秒冷却继续发射；在待发队列或冷却中允许缓存一次松手，再一次额外松手不覆盖缓存。对象池按原整组预留规则扩展，没有额外的5个在飞球上限。暂停与重置清除缓存，不会自动发射。
+
+## 音阶声音
+
+SolfeggioScale为八个固定频率的短促乐音创建PCM AudioClip，所有音符时长相同，使用包络避免爆音；音频12声部共用原Presenter。音阶声部播放pitch=1，LastPitch是当前音符相对do的频率倍率，仅作读数。实际发声事件才推进音阶，不把被音符间隔门限合并的碰撞计入升调。其余命中事件照常触发视觉反馈。ResetNotes仅清理音阶计数，不改GameSession的任何发射状态。
+
+旧预设通过ImpactProfile.FromJson加载，缺失scaleNotes/noteIntervalMs/noteVolume时分别补8/70/.8；显式0音量继续静音。历史pitchStep/pitchMax不参与音阶计算。

diff --git a/SKILL.md b/SKILL.md
@@ -41,3 +41,7 @@ description: 为 Unity 2D 游戏接入、调节或排查闪白、拖尾、震屏
 发射输入与排队直接使用 `ProjectLaunch/` 中从项目提取的代码；不要在 `GalleryLane` 里另写定时队列、等待全回收的限制或自定义角度规则。通过 `scripts/import_project_launch.py` 导入、`scripts/verify_project_launch.py` 比对，来源在 `references/project-launch-source.json`。展馆只做坐标、物理对象及界面绑定适配。
 
 维护本展馆时复用项目实际Shader及飞行／落地状态，不把原毛线纹理直接套到普通线材质，也不把颜料色斑替换成通用小碎片。多色图集要分别绑定纹理，检查实际渲染颜色，不能只断言Sprite引用正确。震屏以当前展示视口的实际像素测量，保留首下完整冲击及可调幅度；展馆强化预设与项目参考参数分别标明。
+
+## 升调音阶
+
+0.2.1使用do、re、mi、fa、so、la、xi、高音do的固定大调音阶（半音0/2/4/5/7/9/11/12），不要改回任意线性pitch增量。被音频限流合并的命中不能推进音阶；断连与手动重置回do，最高音阶封顶。加载旧预设使用ImpactProfile.FromJson补齐音阶默认值，保留用户显式静音。

diff --git a/README.md b/README.md
@@ -28,3 +28,7 @@ python ./scripts/install.py --with-windows
 0.2.0：取消自动发射；玩家拖动瞄准、松手发射一组5球（间隔0.10秒）；15格五色方砖播完破碎序列立即补齐。震屏增加首下冲击，拖尾复用原线芯Shader，碎片恢复为液滴落成原版颜料色斑。验证结果与哈希随Release附带。
 
 发射输入与排队直接复用原GameSession／ChainLiveSession／AppUI／RuleState；包括12°–168°方向约束、炮口偏移、整组预留、固定步出球、0.55秒连发及一次松手缓存。展馆仅做坐标与物理对象绑定。可执行 `python scripts/verify_project_launch.py` 核对来源。
+
+0.2.1：升调改为do re mi fa so la xi 高音do，使用固定音高短促乐音。密集事件不跳音、断连回do、最高级封顶；可调音符间隔／音量／最高音阶，并显示当前音符。原项目发射代码保持不变。
+
+0.2.1验证：30fps和60fps配置各131项通过，原20条RuleState规则自测通过；包括实际PCM音高、八级推进、密集碰撞不跳音、断连重置和旧预设兼容。音阶试听文件随发布包附带。
